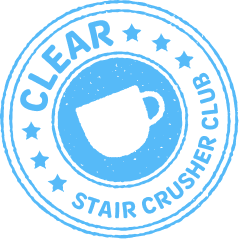
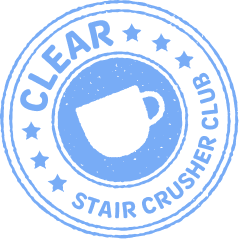
chore: 스탬프 이미지 변경

diff --git a/src/screens/ChallengeDetailScreen/components/ChallengeDetailQuestSection/QuestItem.tsx b/src/screens/ChallengeDetailScreen/components/ChallengeDetailQuestSection/QuestItem.tsx
@@ -196,34 +196,34 @@ const stampMap: Record<
   }
 > = {
   FLAG: {
-    color: '#4799E2',
+    color: '#4BA5F4',
     backgroundColor: '#F4FAFF',
-    uri: require('@/assets/img/quest_stamp_flag.png'),
+    uri: require('@/assets/img/stamp/quest_stamp_flag.png'),
   },
   CAFE: {
     color: '#56BAF8',
     backgroundColor: '#56BAF81A',
-    uri: require('@/assets/img/quest_stamp_cafe.png'),
+    uri: require('@/assets/img/stamp/quest_stamp_cafe.png'),
   },
   RESTAURANT: {
-    color: '#8096B5',
+    color: '#78ACF6',
     backgroundColor: '#8096B51A',
-    uri: require('@/assets/img/quest_stamp_restaurant.png'),
+    uri: require('@/assets/img/stamp/quest_stamp_restaurant.png'),
   },
   THUMBS_UP: {
-    color: '#30BDCA',
+    color: '#15CADA',
     backgroundColor: '#30BDCA1A',
-    uri: require('@/assets/img/quest_stamp_good.png'),
+    uri: require('@/assets/img/stamp/quest_stamp_good.png'),
   },
   POTION: {
-    color: '#7C95CF',
+    color: '#6588D8',
     backgroundColor: '#7C95CF1A',
-    uri: require('@/assets/img/quest_stamp_potion.png'),
+    uri: require('@/assets/img/stamp/quest_stamp_potion.png'),
   },
   REVIEW: {
-    color: '#038DBA',
+    color: '#00A5DB',
     backgroundColor: '#038DBA1A',
-    uri: require('@/assets/img/quest_stamp_review.png'),
+    uri: require('@/assets/img/stamp/quest_stamp_review.png'),
   },
 };
 
